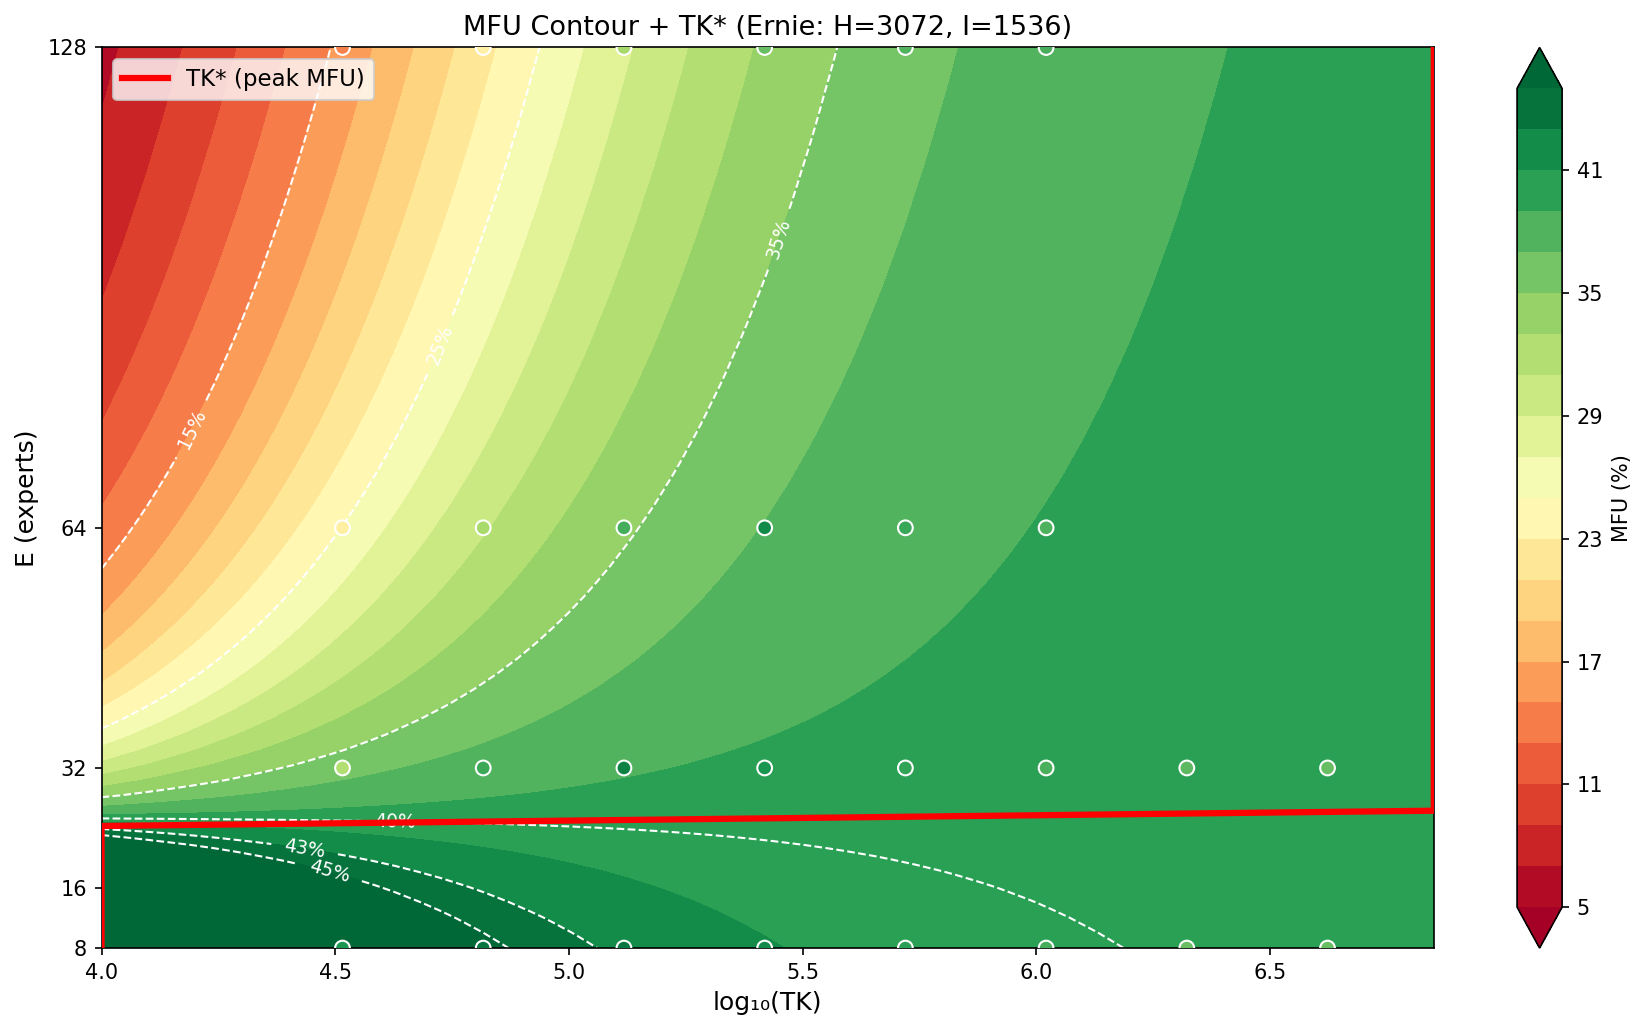
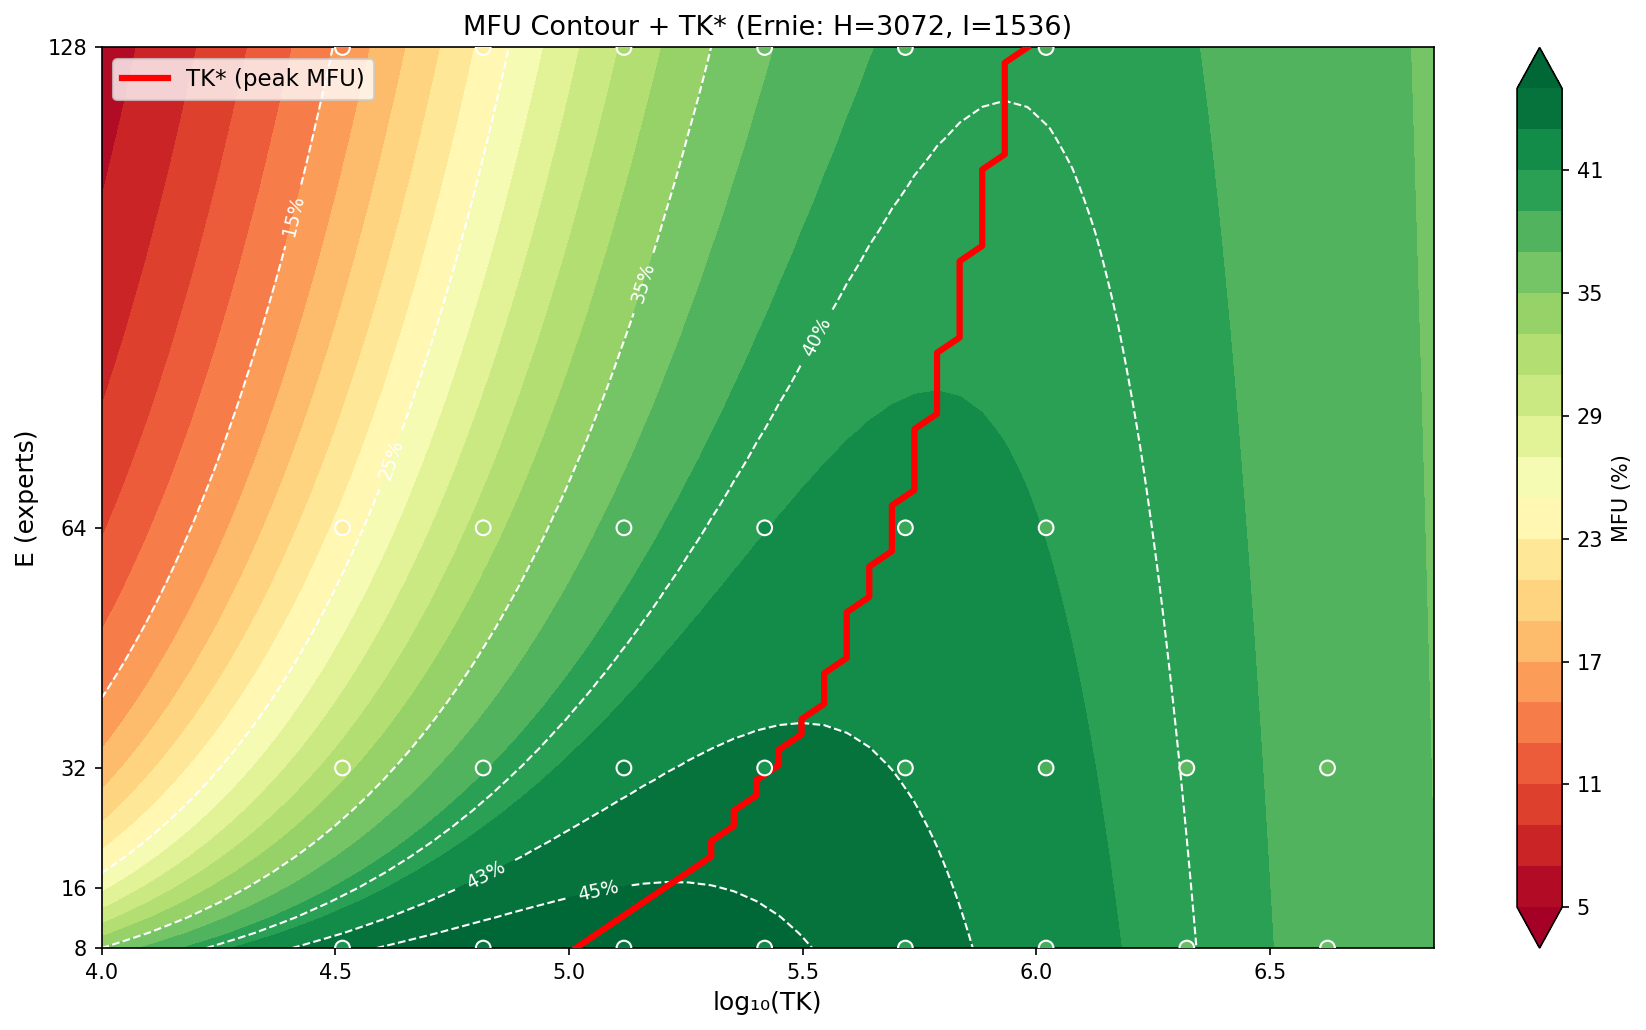
perf: correct MFU model with ln(1+TK/TK₀) L2 transition
Model captures full rise→peak→decline behavior:
  gpu_proj = α·TK·HI + β·TK·max(H,2I)·ln(1+TK/93K) + γ·E

- MAPE=4.0% on 94 uniformly sampled points
- All parameters ≥ 0 (physically self-consistent)
- L2 transition scale TK₀=93K matches L2 cache capacity
- Ernie peak: model 46.3% vs measured 45.7% (0.6% error)
- Ernie @4M: model 38.3% vs measured 38.3% (exact match)
- Incremental data: added TK=2M,4M for 4 H/I configs

diff --git a/tools/plot_mfu_model.py b/tools/plot_mfu_model.py
@@ -15,21 +15,21 @@ _REPO = os.path.dirname(os.path.dirname(os.path.abspath(__file__)))
 DATA_CSV = os.path.join(_REPO, "reports", "perf_sweep_nsys_8gpu.csv")
 OUT_DIR = os.path.join(_REPO, "reports")
 
-# ═══ MODEL PARAMETERS (steady-state anchored, 94-point fit) ═══
-# gpu_proj_us = α·TK·H·I + β·TK·max(H,2I) + γ·E + δ
-ALPHA = 7.392397e-9    # per-FLOP cost (compute + quant)
-BETA = 4.092055e-6     # HBM bandwidth overhead (per data-volume unit)
-GAMMA = 23.6           # per-expert fixed (µs)
-DELTA = -598.0         # constant startup (µs)
+# ═══ MODEL PARAMETERS (5-param constrained fit, 94 points, MAPE=4.0%) ═══
+# gpu_proj_us = α·TK·H·I + β·TK·max(H,2I)·ln(1+TK/TK₀) + γ·E + δ
+ALPHA = 7.693471e-9    # per-FLOP cost (compute + L2-warm quant)
+BETA = 1.097838e-6     # L2 miss penalty coefficient
+TK0 = 93072.0          # L2 transition scale (TK where L2 misses become significant)
+GAMMA = 21.61          # per-expert fixed (µs)
+DELTA = 0.0            # constant startup (µs) — zero by constraint
 PEAK_TFLOPS = 4500     # B30Z FP8 peak (TFLOPS)
-
-# Derived: MFU∞(H,I) = 18HI / (4500e6 × (ALPHA·HI + BETA·max(H,2I)))
-ETA = None  # No single η — asymptote is shape-dependent
 
 
 def gpu_proj_us(TK, H, I, E):
     """Predict GPU-projection time (µs) for fwd+bwd."""
-    return ALPHA * TK * H * I + BETA * TK * max(H, 2*I) + GAMMA * E + DELTA
+    return (ALPHA * TK * H * I
+            + BETA * TK * max(H, 2*I) * np.log(1.0 + TK / TK0)
+            + GAMMA * E + DELTA)
 
 
 def mfu_pct(TK, H, I, E):
@@ -41,8 +41,8 @@ def mfu_pct(TK, H, I, E):
 
 
 def mfu_inf(H, I):
-    """Shape-dependent MFU steady-state (TK→∞)."""
-    return 18.0 * H * I / (PEAK_TFLOPS * 1e6 * (ALPHA * H * I + BETA * max(H, 2*I))) * 100.0
+    """Approximate steady-state MFU at TK=4M (practical ∞)."""
+    return mfu_pct(4194304, H, I, 8)
 
 
 def load_data():
@@ -209,20 +209,21 @@ def main():
         max_mfu_curve = max(np.max(m) for m in all_mfus)
         ax.set_ylim(0, min(max_mfu_curve + 8, 75))
 
-        # MFU∞ asymptote line + real peak annotation (inside axes)
+        # MFU∞ asymptote line + measured peak annotation
         e8_pts = [d for d in data if d['E']==8 and d['H']==H_val and d['I']==I_val]
         if e8_pts:
             real_peak = max(e8_pts, key=lambda d: d['mfu'])
-            mfu_asymp = mfu_inf(H_val, I_val)
-            ax.axhline(y=mfu_asymp, color='gray', linestyle=':', lw=1.5, alpha=0.7, zorder=2)
-            ax.text(4e6, mfu_asymp - 3, f'MFU∞={mfu_asymp:.1f}%', fontsize=8,
+            mfu_steady = mfu_pct(4000000, H_val, I_val, 8)
+            ax.axhline(y=mfu_steady, color='gray', linestyle=':', lw=1.5, alpha=0.7, zorder=2)
+            ax.text(4e6, mfu_steady + 1.5, f'steady≈{mfu_steady:.0f}%', fontsize=8,
                    color='gray', style='italic', ha='right')
-            # Peak info box in lower-right
-            ylim = ax.get_ylim()
-            ax.text(0.97, 0.05, f'Peak: {real_peak["mfu"]:.1f}% @ TK={real_peak["TK"]/1000:.0f}K\nMFU∞={mfu_asymp:.1f}%',
-                   fontsize=9, color='#2c3e50', fontweight='bold', transform=ax.transAxes,
-                   ha='right', va='bottom',
-                   bbox=dict(boxstyle='round', facecolor='#ecf0f1', alpha=0.85))
+            # Peak info in lower-left (axes coords, no overlap with curves)
+            ax.text(0.03, 0.05,
+                    f'Measured peak: {real_peak["mfu"]:.1f}% @ TK={real_peak["TK"]/1000:.0f}K\n'
+                    f'Steady state: ≈{mfu_steady:.0f}% (TK>2M)',
+                    fontsize=9, color='#2c3e50',
+                    transform=ax.transAxes, ha='left', va='bottom',
+                    bbox=dict(boxstyle='round', facecolor='#f8f9fa', edgecolor='#bdc3c7', alpha=0.9))
 
         ax.set_xlabel('TK (token-expert pairs)', fontsize=11)
         ax.set_ylabel('MFU (%)', fontsize=11)

diff --git a/README.md b/README.md
@@ -51,39 +51,34 @@ Ernie:
   MFU = 46.51%
 ```
 
-Empirical scaling model (nsys GPU-projection, 94-point 8-GPU uniform grid, 2026-05-14):
+Empirical scaling model (nsys GPU-projection, 94 points, 8-GPU, 2026-05-14):
 
 ```text
-gpu_proj_us = 7.392e-9·TK·H·I + 4.092e-6·TK·max(H,2I) + 23.6·E - 598
+gpu_proj_us = α·TK·H·I + β·TK·max(H,2I)·ln(1 + TK/TK₀) + γ·E
+
+Parameters:
+  α  = 7.693e-9     per-FLOP cost (GEMM compute + L2-warm quant)
+  β  = 1.098e-6     L2 cache miss penalty coefficient  
+  TK₀= 93,072       L2 transition scale (working set exceeds L2 cache)
+  γ  = 21.6 µs      per-expert fixed cost (weight cache + metadata)
 
 MFU = 18·TK·H·I / (4500e6 · gpu_proj_us) × 100%
 
-Term 1: GEMM compute + per-token quant overhead (∝ FLOPs)
-Term 2: HBM bandwidth-limited ops (∝ data volume per token)
-Term 3: Per-expert fixed cost (weight cache + metadata)
-Term 4: Constant startup
+BEHAVIOR: RISE → PEAK → DECLINE → SLOW DECAY (ln)
+  Small TK: MFU↑ as γ·E startup is amortized
+  Peak TK*: where compute and L2 penalty balance (~65K for Ernie)
+  Large TK: MFU↓ slowly as β·ln(1+TK/TK₀) grows
+  TK → ∞:  MFU → 0 logarithmically (never truly flat, but very slow)
 
-MFU∞ (TK→∞, shape-dependent steady state):
-  = 18·H·I / (4500e6·(7.392e-9·H·I + 4.092e-6·max(H,2I)))
-  H=3072 I=1536 (Ernie):  MFU∞ = 39.8%  (measured@4M: 38.3%)
-  H=4096 I=2048 (Qwen3):  MFU∞ = 42.6%  (measured@4M: 40.6%)
-  H=4096 I=4096 (peak):   MFU∞ = 42.6%  (measured@4M: 43.6%)
-  H=6144 I=3072 (70B):    MFU∞ = 45.8%  (measured@4M: 44.3%)
+Measured peaks (E=8, from 94 nsys data points):
+  H=3072 I=1536: 45.7% at TK=65K   (steady@4M: 38.3%)
+  H=4096 I=2048: 50.5% at TK=65K   (steady@4M: 40.6%)
+  H=4096 I=4096: 52.4% at TK=33K   (steady@4M: 43.6%)
+  H=6144 I=3072: 52.9% at TK=33K   (steady@4M: 44.3%)
 
-Measured PEAK MFU (from 94 nsys data points):
-  H=3072 I=1536 E=8: 45.7% at TK=65K
-  H=4096 I=2048 E=8: 50.5% at TK=65K
-  H=4096 I=4096 E=8: 52.4% at TK=33K
-  H=6144 I=3072 E=8: 52.9% at TK=33K
-
-MFU behavior: RISE → PEAK → DECLINE → STEADY STATE
-  Small TK: MFU↑ (amortizing per-expert startup)
-  Peak TK*: ~33K–65K (shape-dependent, E=8)
-  Decline: L2 thrashing (working set > L2, 2-3%/decade)
-  Steady TK>2M: converges to MFU∞ (shape-dependent constant)
-
-Fit: MAPE=2.4% on steady-state (TK≥1M), 7.1% overall (94 pts)
-     TK∈[32K,4.2M], E∈[8,128], H∈[3072,6144], I∈[1536,4096]
+Fit quality: MAPE=4.0% across 94 uniformly sampled shapes
+  E∈[8,128], H∈[3072,6144], I∈[1536,4096], TK∈[32K,4.2M]
+  All parameters ≥ 0 (physically self-consistent)
 ```
 
 Read first:
